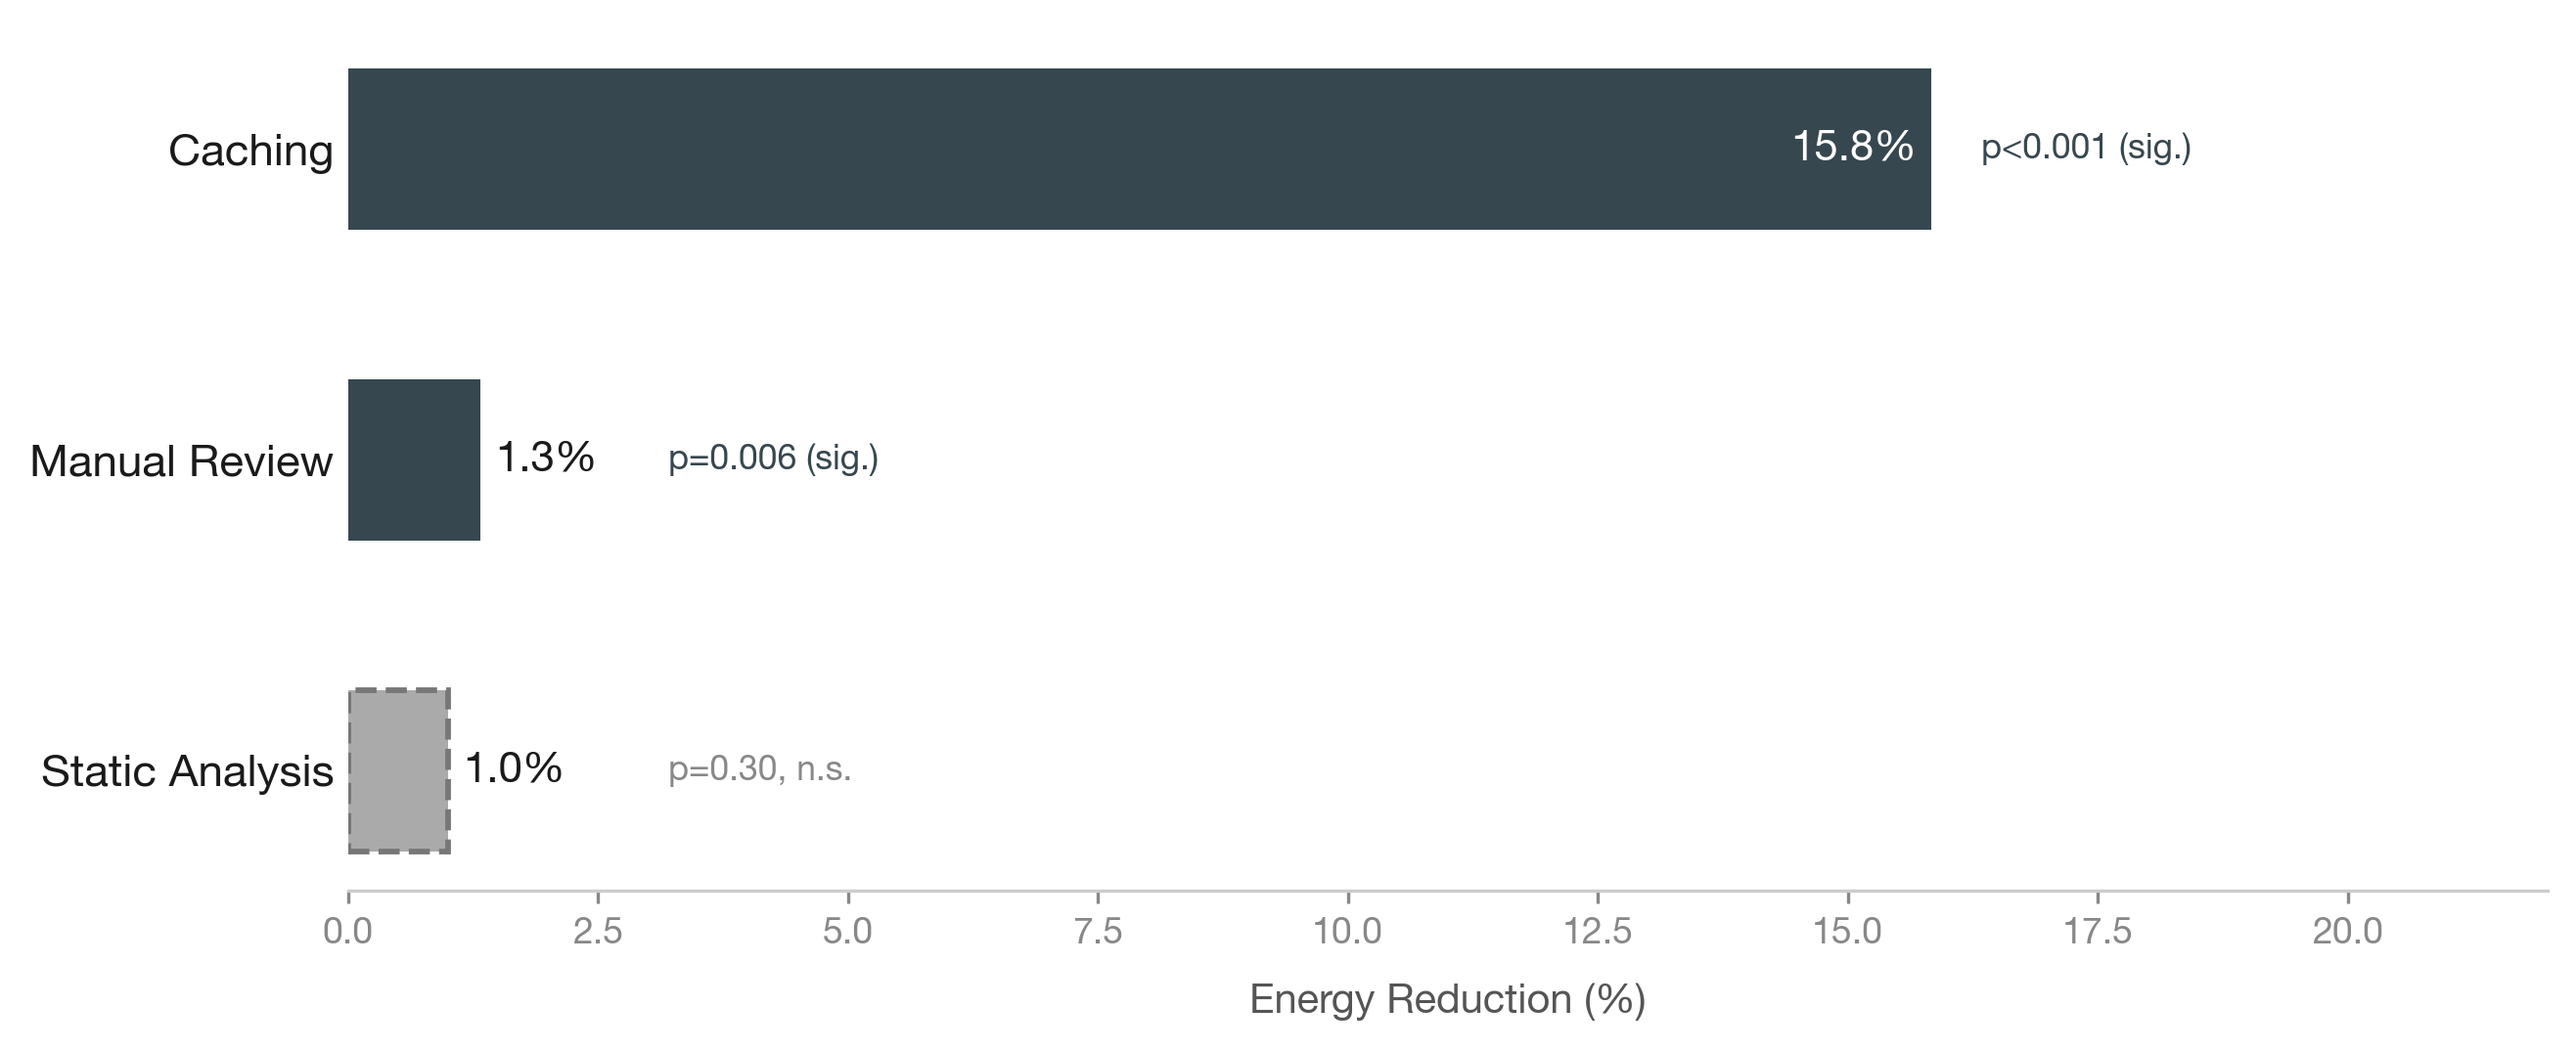
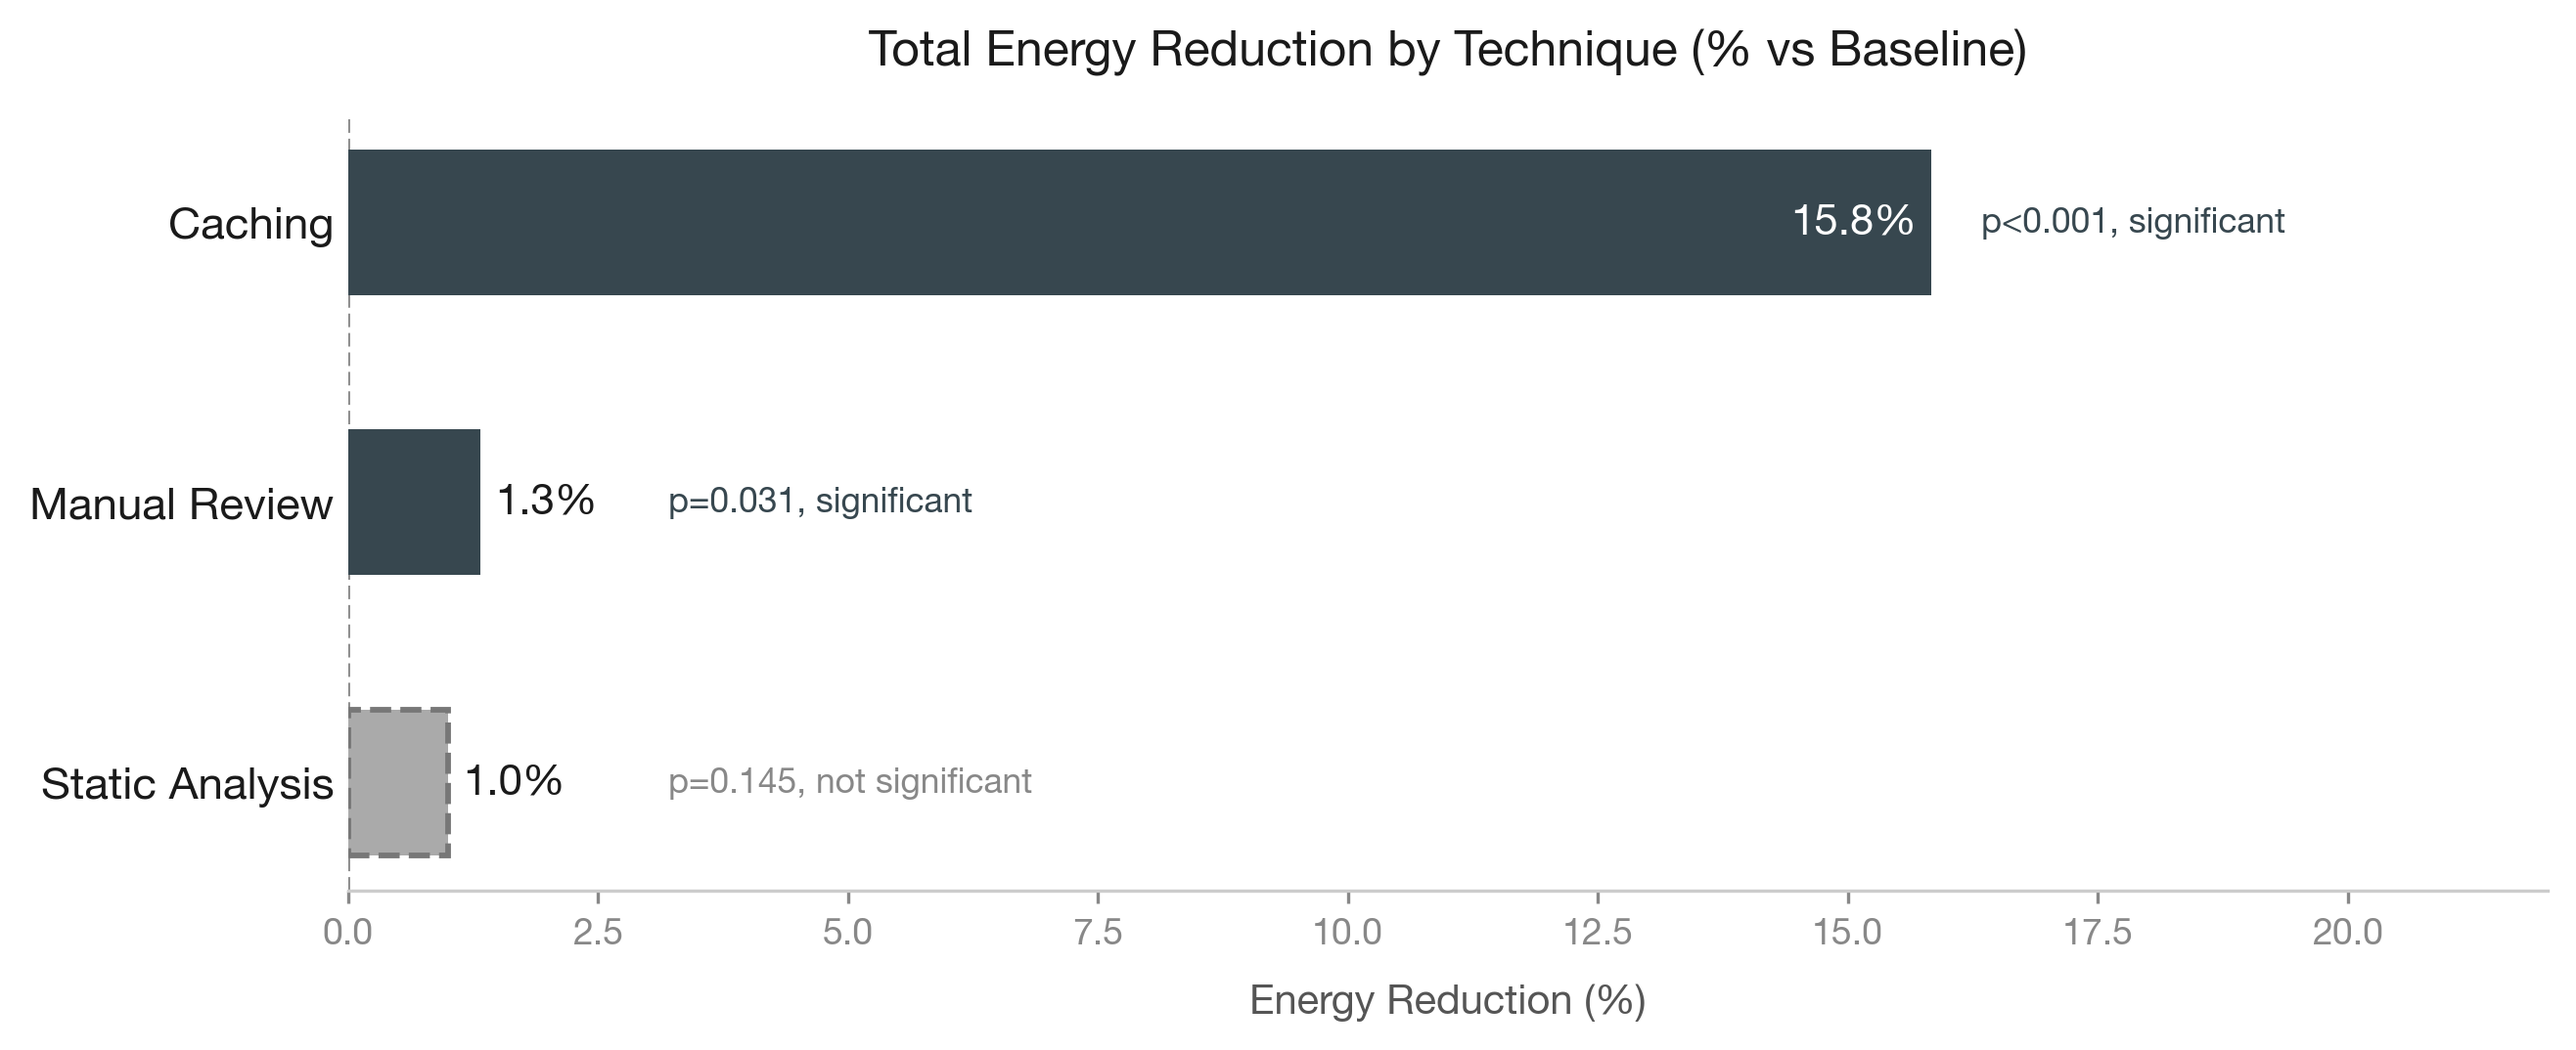
thesis visualizations

diff --git a/backtrader/experiment/results/visualizations.py b/backtrader/experiment/results/visualizations.py
@@ -1,43 +1,50 @@
+import numpy as np
 import pandas as pd
 import matplotlib
 import matplotlib.pyplot as plt
 import matplotlib.patches as mpatches
+import matplotlib.colors as mcolors
 from pathlib import Path
 
 matplotlib.rcParams["font.family"] = "sans-serif"
 matplotlib.rcParams["font.sans-serif"] = ["Helvetica Neue", "Helvetica", "Arial", "DejaVu Sans"]
 
 RESULTS_DIR = Path(__file__).resolve().parent
-CSV_PATH = RESULTS_DIR / "comparison.csv"
+CSV_PATH    = RESULTS_DIR / "comparison.csv"
 
-BRAND  = "#37474F"  # dark blue-grey charcoal
+BRAND  = "#37474F"   # dark blue-grey
 GREY   = "#AAAAAA"
-ORANGE = "#D95F02"  # warm orange accent (expected marker)
-BAR_H = 0.52
+ORANGE = "#D95F02"   # warm orange for expected marker
+BAR_H  = 0.52
 
-df = pd.read_csv(CSV_PATH)
-df = df.set_index("branch")
+BRANCH_LABELS = {
+    "baseline":      "Baseline",
+    "changes_1":     "Manual Review",
+    "changes_2":     "Caching",
+    "changes_3":     "Static Analysis",
+    "changes_1_2":   "Manual + Caching",
+    "changes_1_3":   "Manual + Static Analysis",
+    "changes_2_3":   "Caching + Static Analysis",
+    "changes_1_2_3": "All Three Combined",
+}
+
+df = pd.read_csv(CSV_PATH).set_index("branch")
 
 
 # ---------------------------------------------------------------------------
-# Chart 1 — Individual branch results
+# Chart 1 — Individual branch energy reduction
 # ---------------------------------------------------------------------------
 
 ind_rows = ["changes_1", "changes_2", "changes_3"]
-ind_labels = {
-    "changes_1": "Manual Review",
-    "changes_2": "Caching",
-    "changes_3": "Static Analysis",
-}
 sig_labels = {
-    "changes_1": "p=0.006 (sig.)",
-    "changes_2": "p<0.001 (sig.)",
-    "changes_3": "p=0.30, n.s.",
+    "changes_1": "p=0.031, significant",
+    "changes_2": "p<0.001, significant",
+    "changes_3": "p=0.145, not significant",
 }
 
 ind = df.loc[ind_rows, ["pct_reduction_total"]].copy()
-ind["label"] = [ind_labels[b] for b in ind.index]
-ind["sig"]   = [sig_labels[b] for b in ind.index]
+ind["label"] = [BRANCH_LABELS[b] for b in ind.index]
+ind["sig"]   = [sig_labels[b]   for b in ind.index]
 ind = ind.sort_values("pct_reduction_total", ascending=True)
 
 fig1, ax1 = plt.subplots(figsize=(9, 3.8))
@@ -45,37 +52,36 @@ fig1, ax1 = plt.subplots(figsize=(9, 3.8))
 for i, (branch, row) in enumerate(ind.iterrows()):
     is_ns = branch == "changes_3"
     color = GREY if is_ns else BRAND
-    lw    = 1.4 if is_ns else 0
-    ls    = "--" if is_ns else "-"
+    lw    = 1.4  if is_ns else 0
+    ls    = "--"  if is_ns else "-"
 
-    bar = ax1.barh(
-        row["label"],
-        row["pct_reduction_total"],
+    ax1.barh(
+        row["label"], row["pct_reduction_total"],
         height=BAR_H,
         color=color,
         edgecolor="#777777" if is_ns else "none",
-        linewidth=lw,
-        linestyle=ls,
+        linewidth=lw, linestyle=ls,
     )
 
     val = row["pct_reduction_total"]
-    sig = row["sig"]
-
-    inside = val > 4
+    inside    = val > 4
     val_x     = val - 0.15 if inside else val + 0.15
     val_ha    = "right"    if inside else "left"
     val_color = "white"    if inside else "#1A1A1A"
     ax1.text(val_x, i, f"{val:.1f}%", va="center", ha=val_ha,
              fontsize=10.5, fontweight="semibold", color=val_color)
 
-    # sig annotation: for large bars anchor right after bar; for small bars
-    # anchor at a fixed column so it never collides with the value label
-    sig_x  = val + 0.5 if inside else 3.2
-    sig_color = "#888888" if is_ns else "#37474F"
+    sig      = row["sig"]
+    sig_x    = val + 0.5  if inside else 3.2
+    sig_color = "#888888" if is_ns  else "#37474F"
     ax1.text(sig_x, i, sig, va="center", ha="left", fontsize=8.5,
              color=sig_color, style="italic" if is_ns else "normal")
 
+ax1.axvline(x=0, color="#888888", linewidth=0.9, linestyle="--", zorder=0)
+
 ax1.set_xlabel("Energy Reduction (%)", fontsize=10, color="#555555", labelpad=8)
+ax1.set_title("Total Energy Reduction by Technique (% vs Baseline)",
+              fontsize=12, color="#1A1A1A", pad=12, fontweight="semibold")
 ax1.set_xlim(0, 22)
 ax1.tick_params(axis="y", length=0, labelsize=11, colors="#1A1A1A")
 ax1.tick_params(axis="x", length=3, labelsize=9,  colors="#888888")
@@ -93,16 +99,10 @@ print(f"Saved → {out1}")
 
 
 # ---------------------------------------------------------------------------
-# Chart 2 — Combination results
+# Chart 2 — Combination results with additivity comparison
 # ---------------------------------------------------------------------------
 
 comb_rows = ["changes_1_2", "changes_1_3", "changes_2_3", "changes_1_2_3"]
-comb_labels = {
-    "changes_1_2":   "Manual + Caching",
-    "changes_1_3":   "Manual + Static Analysis",
-    "changes_2_3":   "Caching + Static Analysis",
-    "changes_1_2_3": "All Three Combined",
-}
 
 EFFECT_COLORS = {
     "additive":      "#37474F",
@@ -116,32 +116,28 @@ EFFECT_LABELS = {
 }
 
 comb = df.loc[comb_rows, ["pct_reduction_total", "h3_expected_pct", "h3_effect"]].copy()
-comb["label"] = [comb_labels[b] for b in comb.index]
+comb["label"] = [BRANCH_LABELS[b] for b in comb.index]
 comb = comb.sort_values("pct_reduction_total", ascending=True)
 
 fig2, ax2 = plt.subplots(figsize=(10, 4.2))
 
-yticks = range(len(comb))
+yticks = list(range(len(comb)))
 
+# Observed bars — solid filled
 ax2.barh(
-    list(yticks),
-    comb["pct_reduction_total"].values,
-    height=BAR_H,
-    color=BRAND,
-    edgecolor="none",
-    label="Observed reduction",
-    zorder=2,
+    yticks, comb["pct_reduction_total"].values,
+    height=BAR_H, color=BRAND, edgecolor="none",
+    label="Observed reduction", zorder=2,
 )
 
-# Expected additive value — diamond marker on a thin line
-for i, (_, row) in enumerate(comb.iterrows()):
-    exp = row["h3_expected_pct"]
-    ax2.plot([exp, exp], [i - BAR_H / 2, i + BAR_H / 2],
-             color=ORANGE, linewidth=2.2, zorder=3, solid_capstyle="round")
-    ax2.scatter([exp], [i], marker="D", s=52, color=ORANGE,
-                zorder=4, linewidths=0)
+# Expected bars — outlined only so observed vs expected gap is immediately legible
+ax2.barh(
+    yticks, comb["h3_expected_pct"].values,
+    height=BAR_H,
+    color="none", edgecolor=ORANGE, linewidth=1.8, linestyle="--",
+    label="Expected (additive sum)", zorder=3,
+)
 
-# Value labels + effect annotations
 for i, (_, row) in enumerate(comb.iterrows()):
     obs    = row["pct_reduction_total"]
     effect = row["h3_effect"]
@@ -151,19 +147,18 @@ for i, (_, row) in enumerate(comb.iterrows()):
         ax2.text(obs - 0.2, i, f"{obs:.1f}%", va="center", ha="right",
                  fontsize=10, fontweight="semibold", color="white")
     else:
-        # small bar: label to the LEFT so it never hits the expected marker
         ax2.text(-0.2, i, f"{obs:.1f}%", va="center", ha="right",
                  fontsize=10, fontweight="semibold", color="#1A1A1A")
 
-    # effect annotation at a fixed right column
     ax2.text(21.8, i, EFFECT_LABELS[effect], va="center", ha="right",
-             fontsize=8.5, color=EFFECT_COLORS[effect],
-             style="italic")
+             fontsize=8.5, color=EFFECT_COLORS[effect], style="italic")
 
-ax2.set_yticks(list(yticks))
+ax2.set_yticks(yticks)
 ax2.set_yticklabels(comb["label"].values, fontsize=10.5)
 
 ax2.set_xlabel("Energy Reduction (%)", fontsize=10, color="#555555", labelpad=8)
+ax2.set_title("Observed vs Expected Additive Reduction (% vs Baseline)",
+              fontsize=12, color="#1A1A1A", pad=12, fontweight="semibold")
 ax2.set_xlim(-1.5, 22)
 ax2.tick_params(axis="y", length=0, colors="#1A1A1A")
 ax2.tick_params(axis="x", length=3, labelsize=9, colors="#888888")
@@ -175,12 +170,89 @@ ax2.xaxis.grid(False)
 ax2.yaxis.grid(False)
 
 obs_patch = mpatches.Patch(color=BRAND, label="Observed reduction")
-exp_line  = plt.Line2D([0], [0], color=ORANGE, linewidth=2,
-                        marker="D", markersize=6, label="Expected (additive)")
-ax2.legend(handles=[obs_patch, exp_line], frameon=False,
-           fontsize=9, loc="center right")
+exp_patch = mpatches.Patch(
+    facecolor="none", edgecolor=ORANGE, linewidth=1.8,
+    linestyle="--", label="Expected (additive sum)"
+)
+ax2.legend(handles=[obs_patch, exp_patch], frameon=False, fontsize=9, loc="center right")
 
 fig2.tight_layout(pad=1.5)
 out2 = RESULTS_DIR / "chart_combinations.png"
 fig2.savefig(out2, dpi=300, bbox_inches="tight", facecolor="white")
 print(f"Saved → {out2}")
+
+
+# ---------------------------------------------------------------------------
+# Chart 3 — All branches absolute energy with uncertainty
+# ---------------------------------------------------------------------------
+
+all_rows = ["baseline", "changes_1", "changes_2", "changes_3",
+            "changes_1_2", "changes_1_3", "changes_2_3", "changes_1_2_3"]
+
+abso = df.loc[all_rows, ["mean_total_energy_J", "std_total_energy_J"]].copy()
+abso["label"]         = [BRANCH_LABELS[b] for b in abso.index]
+abso["pct_reduction"] = df.loc[all_rows, "pct_reduction_total"].fillna(0.0)
+# sort ascending so highest energy (baseline) ends up at top of barh
+abso = abso.sort_values("mean_total_energy_J", ascending=True)
+
+BASELINE_CLR = "#90A4AE"   # distinct cool blue-grey for baseline
+ALPHA_MIN, ALPHA_MAX = 0.30, 1.00
+
+non_bl = abso[abso.index != "baseline"]["pct_reduction"]
+red_min, red_max = non_bl.min(), non_bl.max()
+
+def reduction_alpha(pct):
+    if red_max > red_min:
+        return ALPHA_MIN + (ALPHA_MAX - ALPHA_MIN) * (pct - red_min) / (red_max - red_min)
+    return ALPHA_MAX
+
+def bar_rgba(branch, pct):
+    if branch == "baseline":
+        return mcolors.to_rgba(BASELINE_CLR, alpha=1.0)
+    return mcolors.to_rgba(BRAND, alpha=reduction_alpha(pct))
+
+fig3, ax3 = plt.subplots(figsize=(10, 5.2))
+
+for i, (branch, row) in enumerate(abso.iterrows()):
+    rgba  = bar_rgba(branch, row["pct_reduction"])
+    xerr  = row["std_total_energy_J"]
+    mean  = row["mean_total_energy_J"]
+
+    ax3.barh(
+        row["label"], mean,
+        height=BAR_H,
+        color=rgba,
+        edgecolor="none",
+        xerr=xerr,
+        error_kw={"elinewidth": 1.2, "ecolor": "#888888", "capsize": 3},
+        zorder=2,
+    )
+
+    ax3.text(mean + xerr + 4, i, f"{mean:.1f} J",
+             va="center", ha="left", fontsize=9, color="#1A1A1A")
+
+ax3.set_xlabel("Total Energy (J)", fontsize=10, color="#555555", labelpad=8)
+ax3.set_title("Mean Total Energy Consumption per Branch (J)",
+              fontsize=12, color="#1A1A1A", pad=12, fontweight="semibold")
+ax3.set_xlim(0, 840)
+ax3.tick_params(axis="y", length=0, labelsize=10, colors="#1A1A1A")
+ax3.tick_params(axis="x", length=3, labelsize=9,  colors="#888888")
+ax3.spines["top"].set_visible(False)
+ax3.spines["right"].set_visible(False)
+ax3.spines["left"].set_visible(False)
+ax3.spines["bottom"].set_color("#CCCCCC")
+ax3.xaxis.grid(False)
+ax3.yaxis.grid(False)
+
+baseline_patch = mpatches.Patch(color=BASELINE_CLR, label="Baseline")
+lo_patch = mpatches.Patch(color=mcolors.to_rgba(BRAND, alpha=ALPHA_MIN),
+                           label="Lower reduction (lighter)")
+hi_patch = mpatches.Patch(color=mcolors.to_rgba(BRAND, alpha=ALPHA_MAX),
+                           label="Higher reduction (darker)")
+ax3.legend(handles=[baseline_patch, lo_patch, hi_patch],
+           frameon=False, fontsize=9, loc="lower right")
+
+fig3.tight_layout(pad=1.5)
+out3 = RESULTS_DIR / "chart_all_branches_absolute.png"
+fig3.savefig(out3, dpi=300, bbox_inches="tight", facecolor="white")
+print(f"Saved → {out3}")
